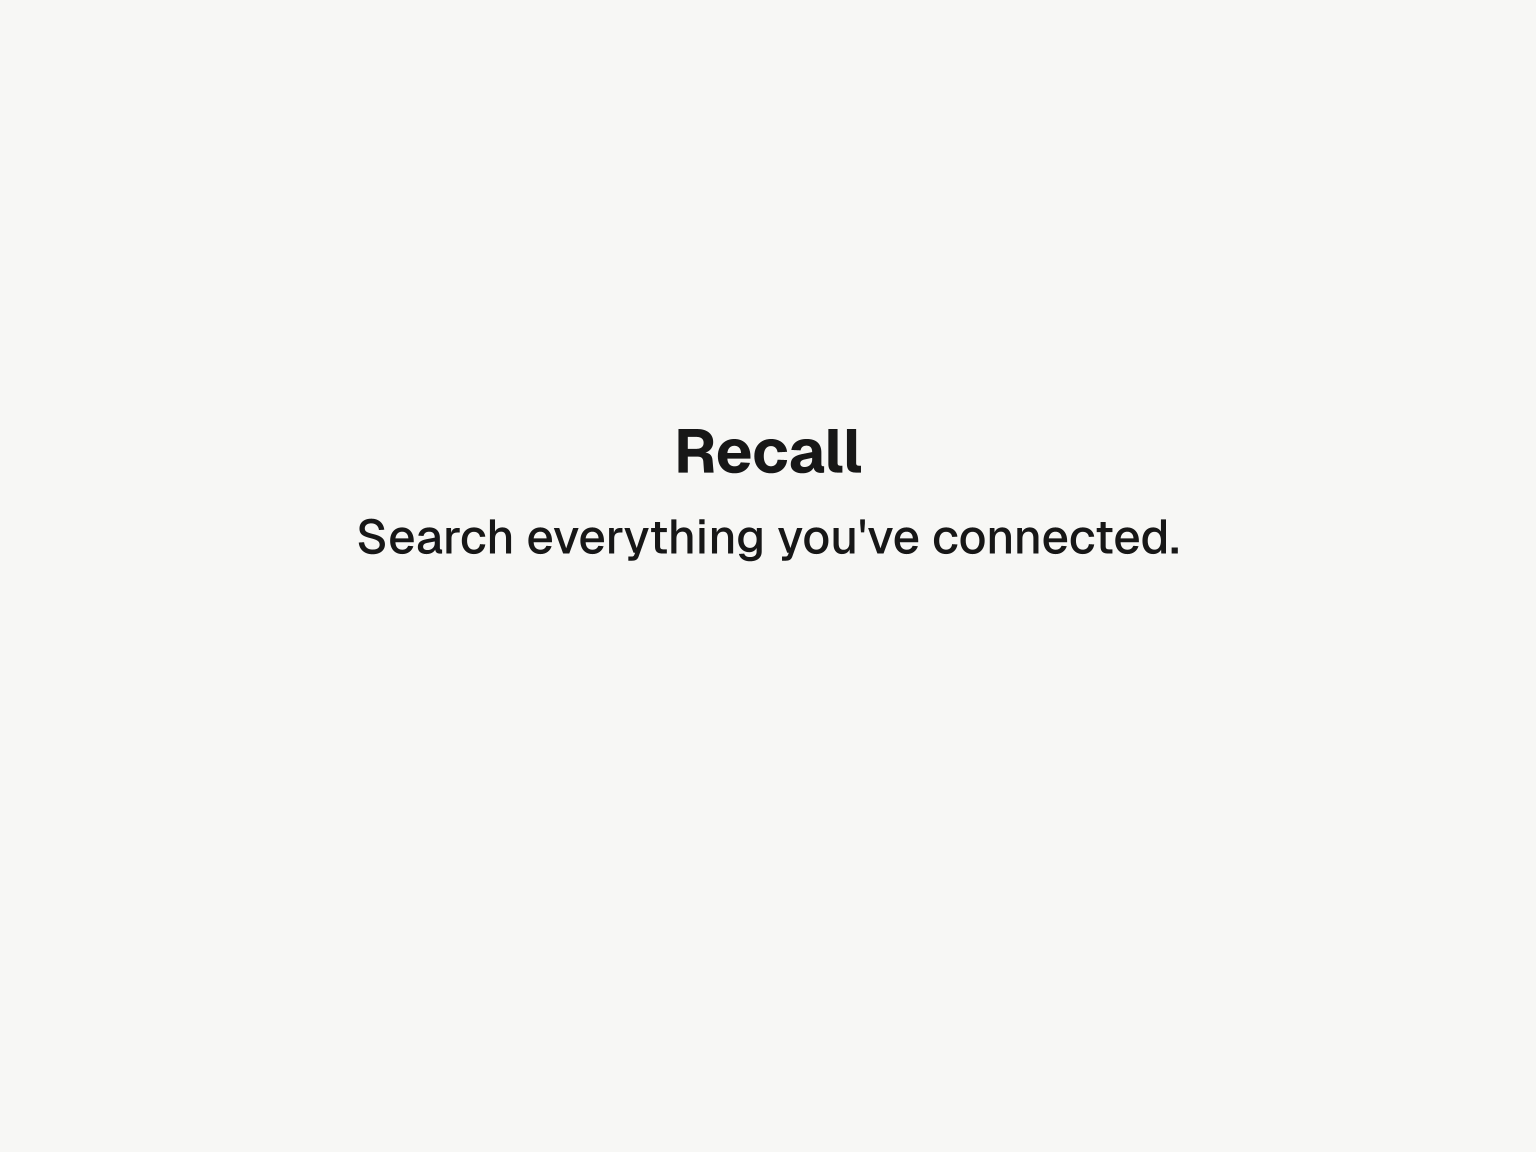
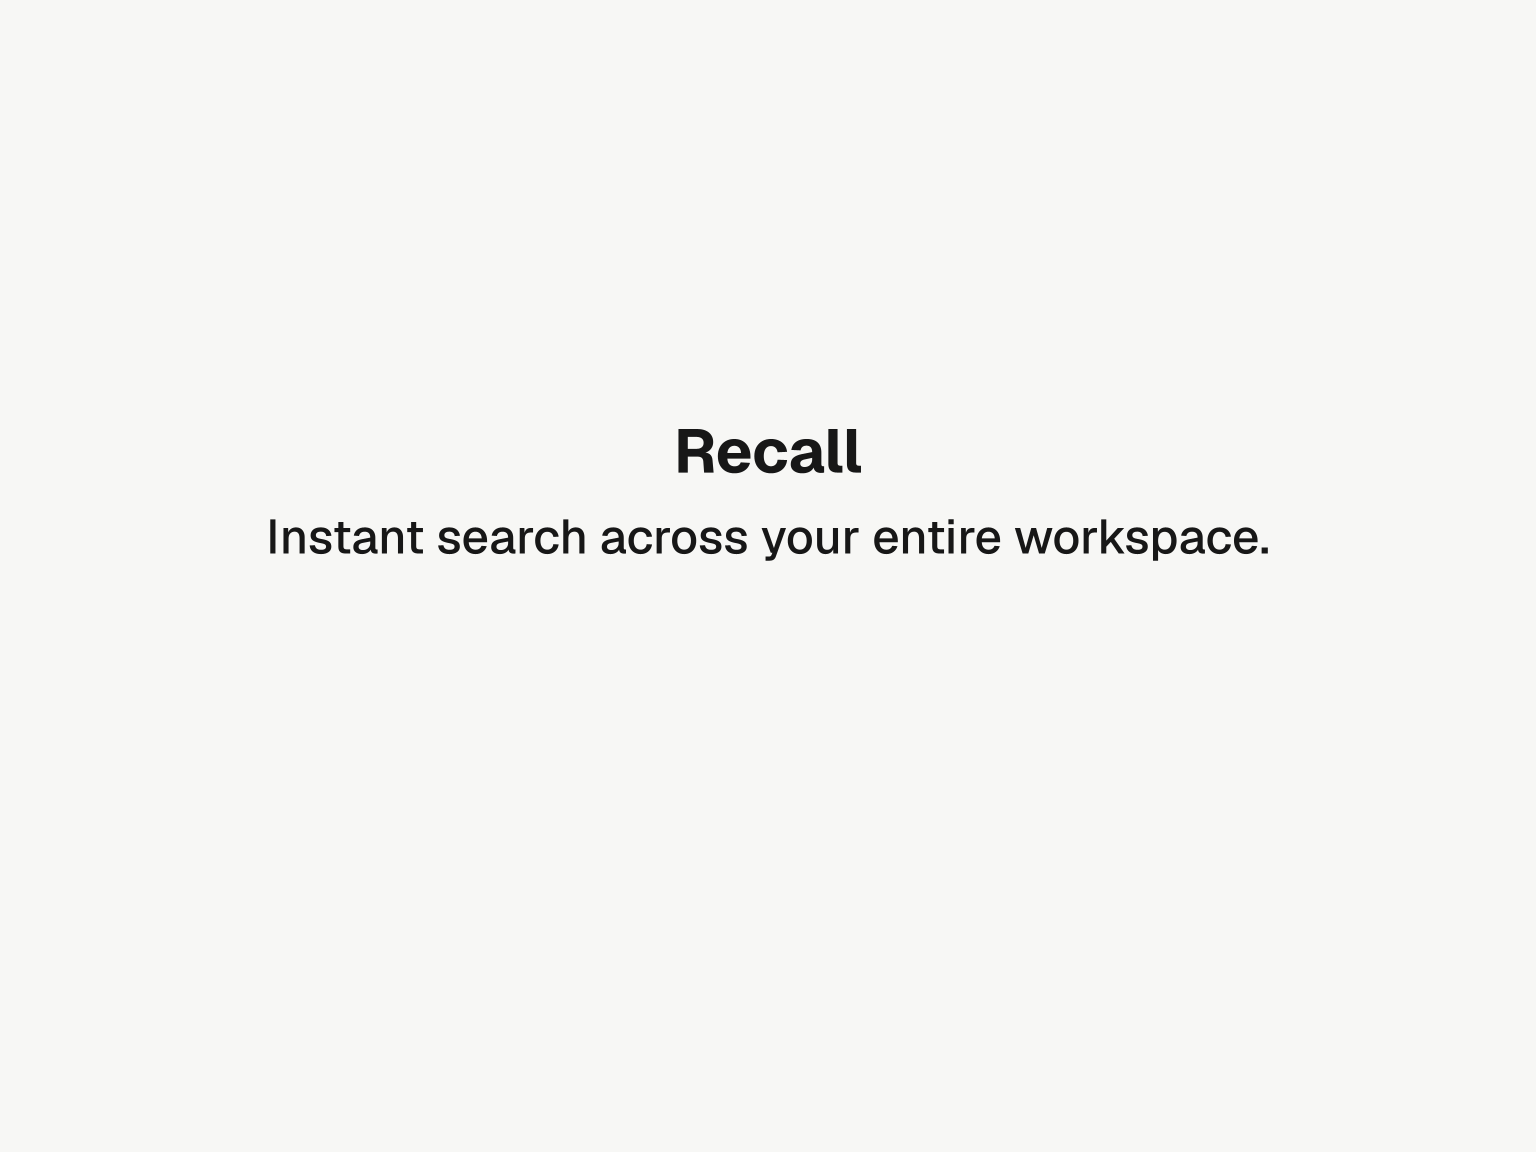
Update metadata

Changed region(s): [[0.1562, 0.4375, 0.8125, 0.5]]

diff --git a/app/layout.tsx b/app/layout.tsx
@@ -11,7 +11,8 @@ const geist = Geist({
 });
 
 const title = "Recall";
-const description = "Search everything you've ever connected.";
+const description =
+  "Instant search across your entire workspace. Find emails, files, documents, issues, and notes from all your connected apps in one place.";
 
 export const metadata: Metadata = {
   metadataBase: new URL("https://recall.juliennepanes.workers.dev"),
